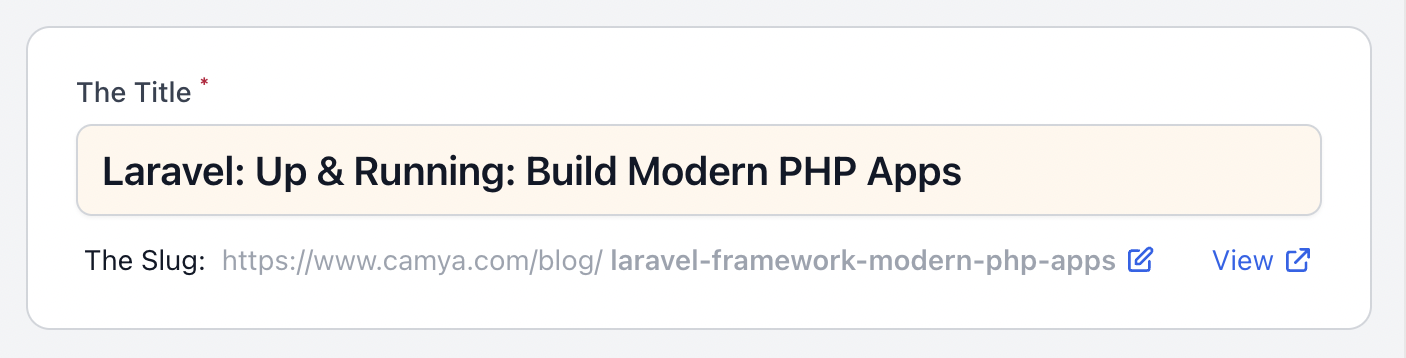
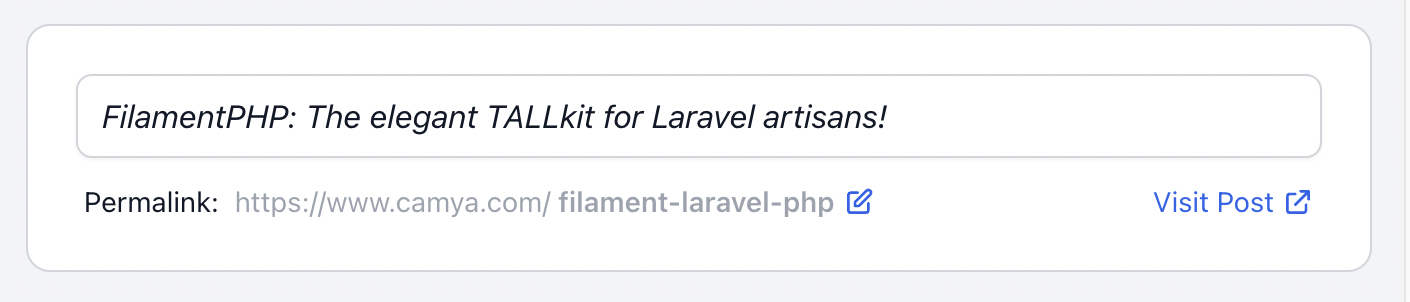
Update

diff --git a/README.md b/README.md
@@ -209,7 +209,7 @@ parameter.
 
 ```php
 TitleWithSlugInput::make(
-    titleExtraInputAttributes: ['class' => 'text-xl font-semibold bg-orange-50'],
+    titleExtraInputAttributes: ['class' => 'italic'],
 )
 ```
 
